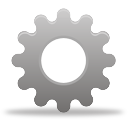
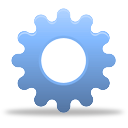
New Help Menu actions to learn more about sharing/unsharing files and Torrent Seeding. Configure Sharing button now says "Configure Sharing" and it's now colored blue so there's no doubt that it's not disabled.

diff --git a/gui/com/limegroup/gnutella/gui/menu/HelpMenu.java b/gui/com/limegroup/gnutella/gui/menu/HelpMenu.java
@@ -38,15 +38,22 @@ final class HelpMenu extends AbstractMenu {
 	 */
 	HelpMenu() {
 	    super(I18n.tr("&Help"));
-		addMenuItem(new OpenLinkAction("http://www.frostwire.com/?id=support",
-		        I18n.tr("&Using FrostWire"),
-		        I18n.tr("Help for Using FrostWire")));
-		
-		addMenuItem(new ShowTipOfTheDayAction());
-		
+
 		addMenuItem(new OpenLinkAction("http://www.frostwire.com/?id=faq",
 		        I18n.tr("&FAQ"),
 		        I18n.tr("Frequently Asked Questions for FrostWire")));
+
+	    addMenuItem(new OpenLinkAction("http://frostwire.wordpress.com/2007/03/19/dont-get-scammed-frostwire-is-free/",
+		        I18n.tr("&Did you pay for FrostWire?"),
+		        I18n.tr("Did you pay for FrostWire? FrostWire is Free as in Free Beer. Avoid Scams.")));
+		
+		addMenuItem(new OpenLinkAction("http://www.frostwire.com/?id=faq#fil1",
+				I18n.tr("How to share/unshare files?"),
+				I18n.tr("How to control what files are shared or not.")));		
+
+		addMenuItem(new OpenLinkAction("http://www.frostwire.com/?id=faq#fil7",
+				I18n.tr("What is \"Seeding\"?"),
+				I18n.tr("Learn about BitTorrent Seeding")));		
 		
 		addMenuItem(new OpenLinkAction("http://www.frostwire.com/forum/viewforum.php?f=1",
 		        I18n.tr("Foru&m"),
@@ -59,6 +66,8 @@ final class HelpMenu extends AbstractMenu {
 		addMenuItem(new OpenLinkAction("http://www.frostwire.com/twitter",
 				I18n.tr("Follow us on Twitter"),
 				I18n.tr("Follow us on Twitter")));
+		
+		addMenuItem(new ShowTipOfTheDayAction());
 		
 		if(!OSUtils.isMacOSX()) {
             addSeparator();

diff --git a/gui/com/limegroup/gnutella/gui/search/ResultPanel.java b/gui/com/limegroup/gnutella/gui/search/ResultPanel.java
@@ -373,7 +373,7 @@ public class ResultPanel extends AbstractTableMediator<TableRowFilter, TableLine
         
         CONFIGURE_SHARING_ACTION = new ConfigureOptionsAction(
                 OptionsConstructor.SHARED_KEY,
-                I18n.tr("Options"),
+                I18n.tr("Sharing Options"),
                 I18n.tr("You can configure the folders you share in FrostWire\'s Options."));
         CONFIGURE_SHARING_BUTTON = new IconButton(CONFIGURE_SHARING_ACTION);
         CONFIGURE_SHARING_BUTTON.setEnabled(true);

diff --git a/gui/com/limegroup/gnutella/gui/library/LibraryTree.java b/gui/com/limegroup/gnutella/gui/library/LibraryTree.java
@@ -923,7 +923,7 @@ final class LibraryTree extends JTree implements MouseObserver {
 	private Action exploreAction = new ExploreAction();
 	private Action configureSharingAction = new ConfigureOptionsAction(
             OptionsConstructor.SHARED_KEY,
-            I18n.tr("Options"),
+            I18n.tr("Sharing Options"),
             I18n.tr("You can configure the folders you share in FrostWire\'s Options."));
             
     private Action showTorrentMetaAction = new ShowHideTorrentMetaAction();
